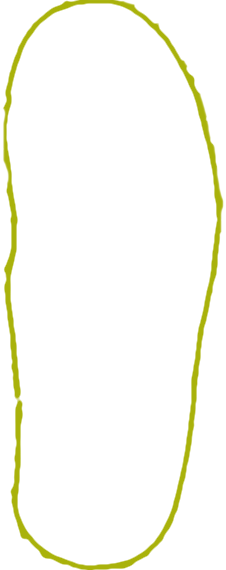
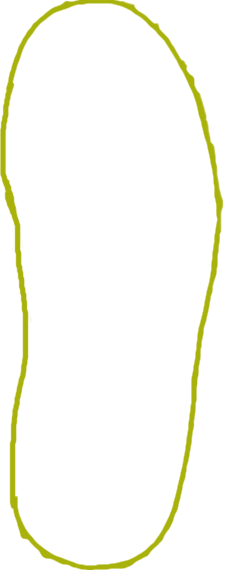
make the mock images better

Changed region(s): [[0.0, 0.1491, 0.1549, 0.8947]]

diff --git a/www/try.html b/www/try.html
@@ -93,7 +93,7 @@
           <div class="col-xs-10 col-xs-offset-1 text-center">
             <div class="btn-group">
               <button id="smaller" type="button" class="btn btn-default">-</button>
-              <button id="size" type="button" class="btn btn-default">44</button>
+              <button id="size" type="button" class="btn btn-default">45</button>
               <button id="bigger" type="button" class="btn btn-default">+</button>
             </div>
           </div>
@@ -105,7 +105,7 @@
       <script src="js/bootstrap.min.js"></script>
       <script type="text/javascript">
         $(document).ready(function() {
-          var size = 44;
+          var size = 45;
           var height = 250;
           var top = 17;
           var left = 106;
@@ -122,8 +122,10 @@
             size = size - 1;
             $('#size').html(size);
 
-            if (size <= 46) {
+            if (size < 47) {
               sole.attr("src", "img/inner_sole-not-fit-sketch.png")
+            } else if (size == 47) {
+              sole.attr("src", "img/inner_sole-fit-sketch.png")
             }
           });
           $('#bigger').click(function() {
@@ -139,8 +141,10 @@
             size = size + 1;
             $('#size').html(size);
 
-            if (size > 46) {
+            if (size == 47) {
               sole.attr("src", "img/inner_sole-fit-sketch.png")
+            } else if(size > 47) {
+              sole.attr("src", "img/inner_sole-sketch.png")
             }
           });
         });
